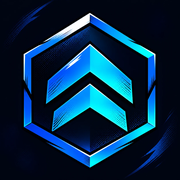
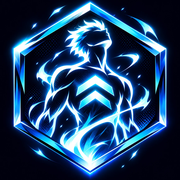
Soul Leveling : icône de l'appli remplacée par la silhouette dans l'hexagone
Claude-Session: https://claude.ai/code/session_012ydx1M7wiooQHcqZLRRuKn

diff --git a/forge-app/sw.js b/forge-app/sw.js
@@ -1,5 +1,5 @@
 // Cache hors-ligne minimal : l'appli fonctionne sans réseau après la 1re visite.
-const CACHE = "forge-v16";
+const CACHE = "forge-v17";
 const FILES = ["./", "index.html", "styles.css", "data.js", "art.js", "config.js", "vendor/supabase.js", "cloud.js", "app.js", "sound.js", "icon-512.png", "apple-touch-icon.png", "manifest.webmanifest", "assets/logo-flame.webp", "assets/logo.webp", "assets/hero.webp", "assets/emblem-hero.webp", "assets/hero-soul.webp", "assets/welcome-scene.webp", "assets/art/pact.webp", "assets/art/system.webp", "assets/art/training.webp", "assets/art/study.webp", "assets/art/summit.webp", "assets/art/awakening.webp", "assets/art/rest.webp", "assets/art/friends.webp"];
 self.addEventListener("install", (e) => e.waitUntil(caches.open(CACHE).then((c) => c.addAll(FILES))));
 self.addEventListener("activate", (e) =>
